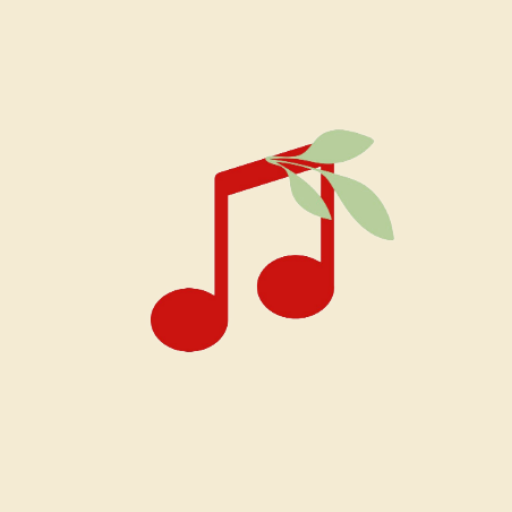
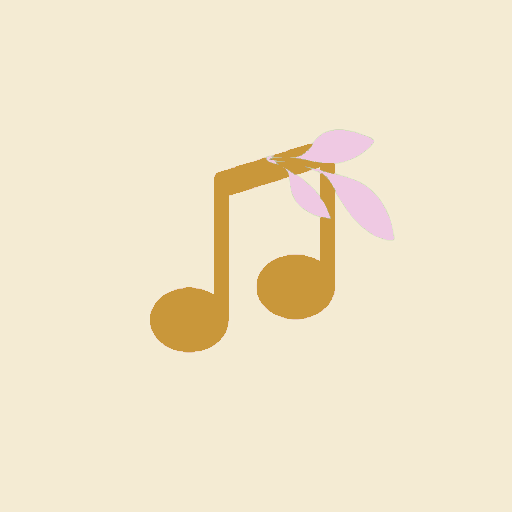
Polish v2 Lotus & Gold theme
Align contact heading tracking, use success green for form OK state,
and recolor brand mark icons from tomato/sage to gold/lilac.

Changed region(s): [[0.2812, 0.25, 0.7812, 0.6875]]

diff --git a/index.html b/index.html
@@ -489,7 +489,7 @@
   }
 
   /* CONTACT */
-  #view-contact .big{font-family:var(--disp);font-weight:700;font-size:clamp(46px,10vw,140px);line-height:.86;text-transform:uppercase;letter-spacing:.005em}
+  #view-contact .big{font-family:var(--disp);font-weight:700;font-size:clamp(46px,10vw,140px);line-height:.86;text-transform:uppercase;letter-spacing:-.035em}
   .cpaths{display:grid;grid-template-columns:1fr 1fr;gap:22px;margin:44px 0 34px}
   @media (max-width:720px){.cpaths{grid-template-columns:1fr}}
   .cpath{border:1px solid var(--line);border-radius:14px;padding:28px 26px;background:var(--card)}
@@ -566,7 +566,7 @@
   .contactcard .btn .arr{width:18px;height:18px}
   .contactcard .fine{font-size:12.5px;color:var(--ink-soft)}
   .contactcard .fine a{color:var(--ink);border-bottom:1.5px solid var(--red)}
-  .contactcard .fine.ok{color:var(--lilac-ink);font-weight:600}
+  .contactcard .fine.ok{color:#1f9d55;font-weight:600}
   .contactcard .fine.err{color:var(--red);font-weight:600}
   footer{padding:30px 0 40px;font-size:13px;color:var(--ink-soft);display:flex;justify-content:space-between;flex-wrap:wrap;gap:10px;border-top:1px solid var(--line)}
   @media (max-width:640px){footer{padding:16px 0 calc(18px + env(safe-area-inset-bottom,0px))}}
